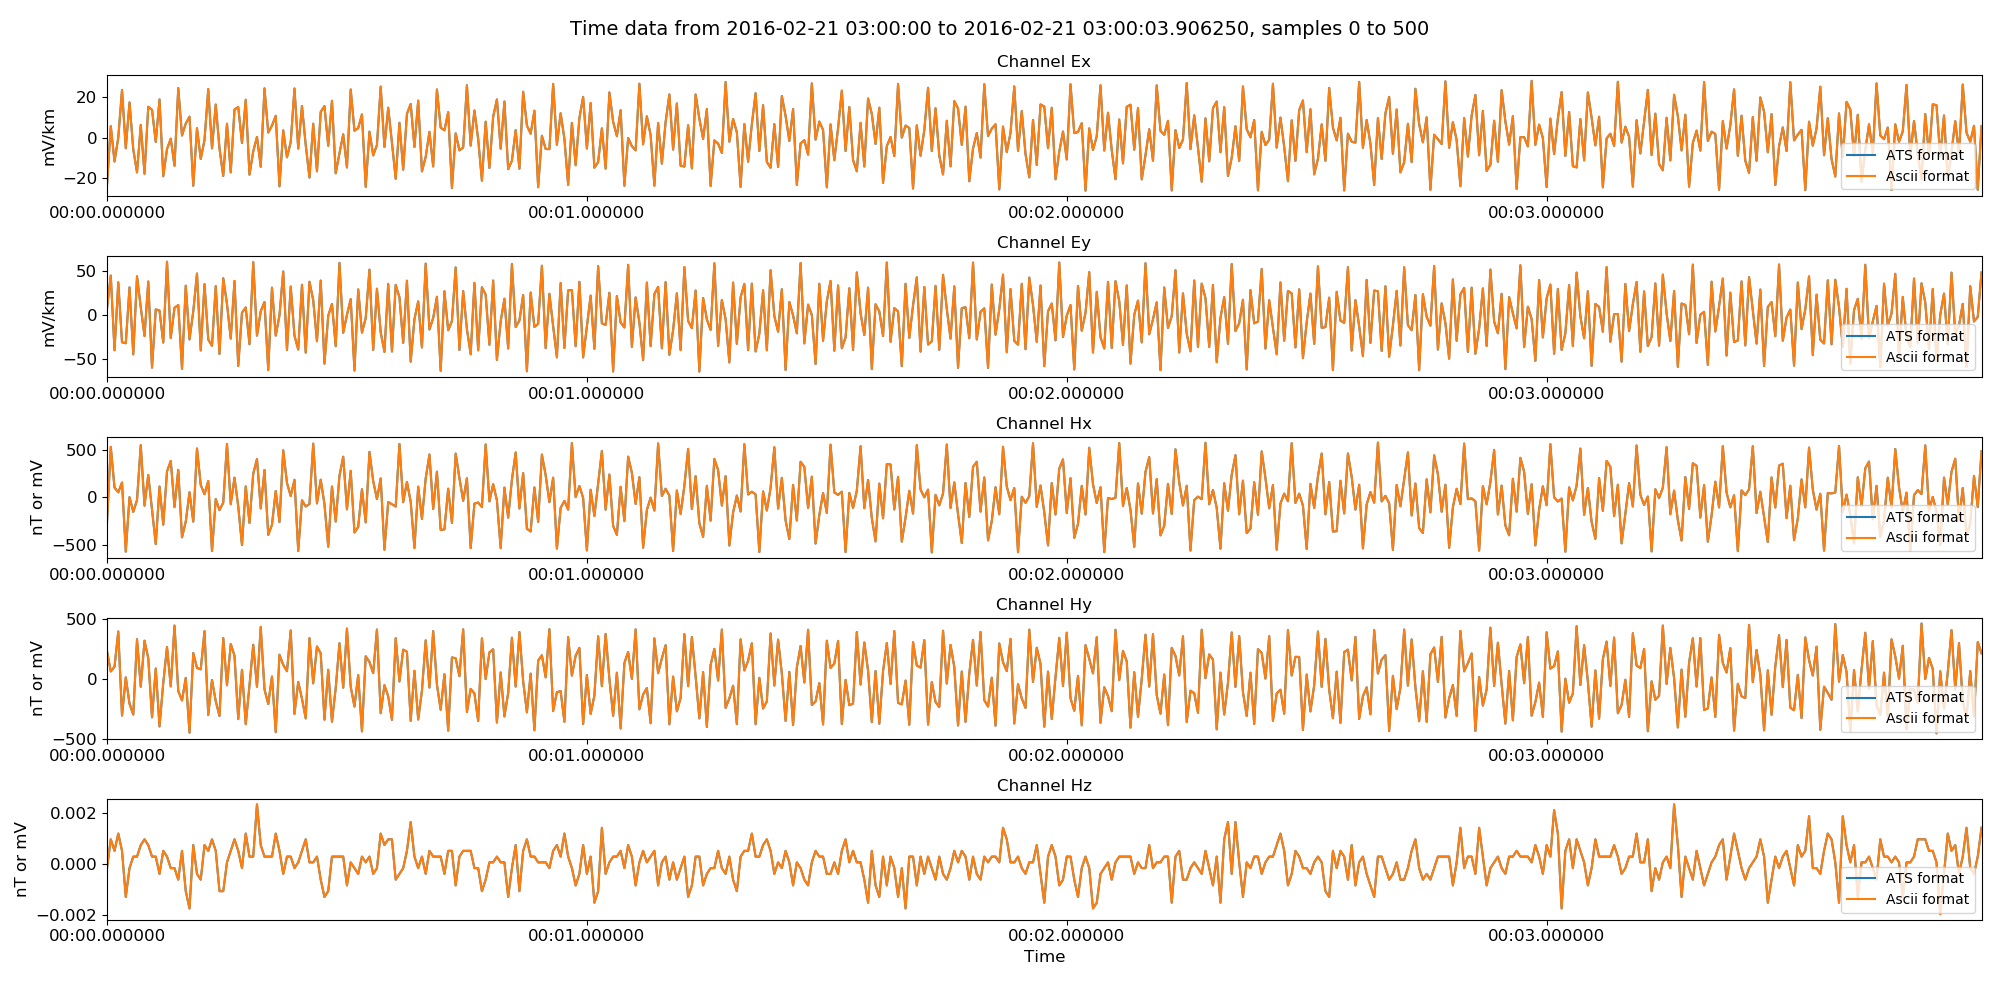
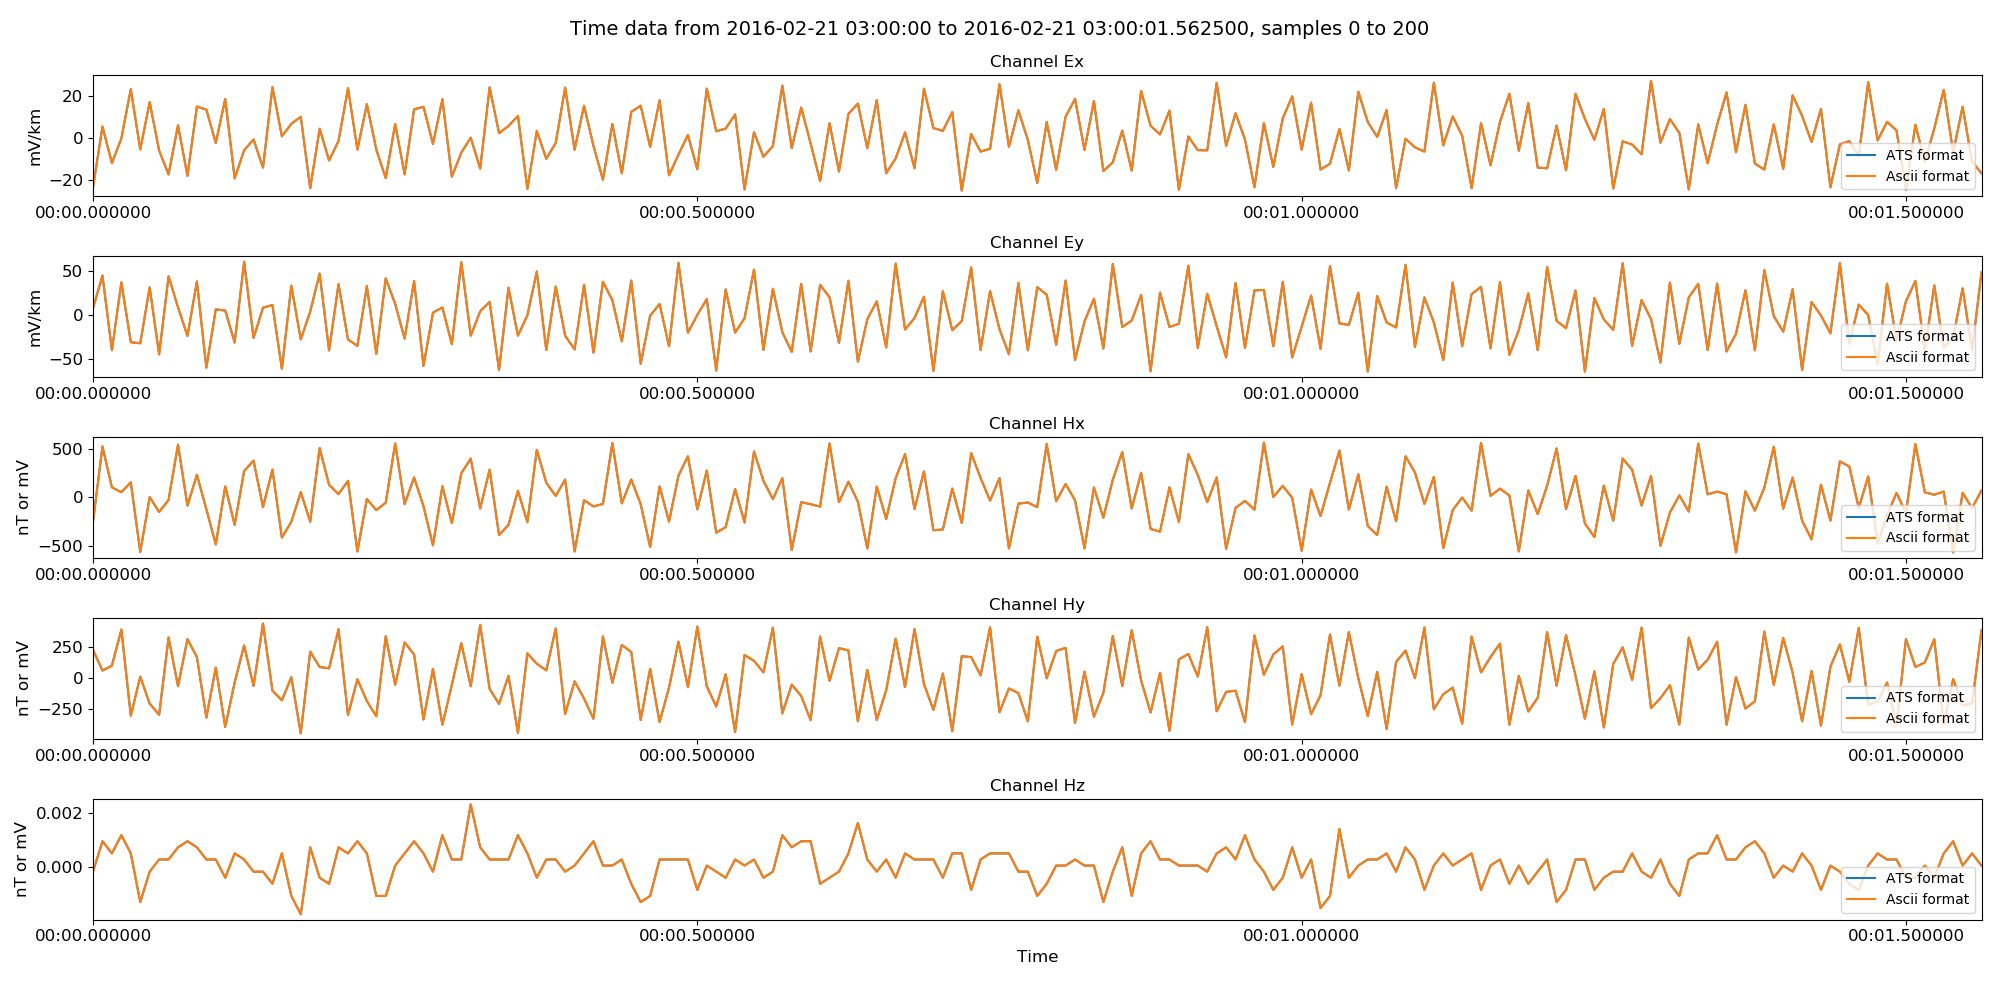
More changes to the read data examples and a few more images generated

diff --git a/examples/conventions/phoenixReaderExamples.py b/examples/conventions/phoenixReaderExamples.py
@@ -4,27 +4,44 @@ from resistics.ioHandlers.dataReaderPhoenix import DataReaderPhoenix
 # read in spam data
 phoenixPath = os.path.join("timeData", "phoenix")
 phoenixReader = DataReaderPhoenix(phoenixPath)
+phoenixReader.printDataFileInfo()
 phoenixReader.printInfo()
 
 # get some data
 startTime = "2011-11-14 02:00:00"
 stopTime = "2011-11-14 03:00:00"
 unscaledData = phoenixReader.getUnscaledData(startTime, stopTime)
-unscaledData.printInfo()
-unscaledData.view(sampleEnd=20000)
+print(unscaledData)
 
-# let's try physical data
+# plot data
+import matplotlib.pyplot as plt
+
+fig = plt.figure(figsize=(20, 2 * unscaledData.numChans))
+unscaledData.view(fig=fig, sampleEnd=20000)
+fig.tight_layout(rect=[0, 0.02, 1, 0.96])
+plt.show()
+fig.savefig(os.path.join("images", "phoenixUnscaled.png"))
+
+# let's try physical data and view it
 physicalData = phoenixReader.getPhysicalData(startTime, stopTime)
 physicalData.printInfo()
-physicalData.view(sampleEnd=20000)
+fig = plt.figure(figsize=(20, 2 * physicalData.numChans))
+physicalData.view(fig=fig, sampleEnd=20000)
+fig.tight_layout(rect=[0, 0.02, 1, 0.96])
+plt.show()
+fig.savefig(os.path.join("images", "phoenixPhysical.png"))
 
-# all we see is 50Hz and 16Hz noise - apply low pass filter
+# can filter the data
 from resistics.utilities.utilsFilter import highPass
 
 filteredData = highPass(physicalData, 4, inplace=False)
-filteredData.view(sampleEnd=20000)
+fig = plt.figure(figsize=(20, 2 * physicalData.numChans))
+filteredData.view(fig=fig, sampleEnd=20000)
+fig.tight_layout(rect=[0, 0.02, 1, 0.96])
+plt.show()
+fig.savefig(os.path.join("images", "phoenixFiltered.png"))
 
-# only reformat the continuous for now
+# reformat the continuous sampling frequency
 phoenix_2internal = os.path.join("timeData", "phoenixInternal")
 phoenixReader.reformatContinuous(phoenix_2internal)
 
@@ -36,11 +53,11 @@ internalReader = DataReaderInternal(
 )
 internalReader.printInfo()
 internalReader.printComments()
+
+# read in physical data
 internalData = internalReader.getPhysicalData(startTime, stopTime)
 
-# plot this against the original
-import matplotlib.pyplot as plt
-
+# plot the two together
 fig = plt.figure(figsize=(20, 2 * physicalData.numChans))
 physicalData.view(fig=fig, label="Phoenix format data")
 internalData.view(fig=fig, label="Internal format data", legend=True)

diff --git a/examples/conventions/spamReaderExamples.py b/examples/conventions/spamReaderExamples.py
@@ -6,14 +6,6 @@ spamPath = os.path.join("timeData", "spam")
 spamReader = DataReaderSPAM(spamPath)
 spamReader.printInfo()
 
-# write out as the internal format
-from resistics.ioHandlers.dataWriterInternal import DataWriterInternal
-
-spam_2internal = os.path.join("timeData", "spamInternal")
-writer = DataWriterInternal()
-writer.setOutPath(spam_2internal)
-writer.writeDataset(spamReader, physical=True)
-
 # get physical data from SPAM
 import matplotlib.pyplot as plt
 
@@ -26,6 +18,14 @@ physicalSPAMData.view(fig=fig, sampleStop=2000)
 fig.tight_layout(rect=[0, 0.02, 1, 0.96])
 plt.show()
 fig.savefig(os.path.join("images", "spam.png"))
+
+# write out as the internal format
+from resistics.ioHandlers.dataWriterInternal import DataWriterInternal
+
+spam_2internal = os.path.join("timeData", "spamInternal")
+writer = DataWriterInternal()
+writer.setOutPath(spam_2internal)
+writer.writeDataset(spamReader, physical=True)
 
 # read in the internal format dataset and see what's in the comments
 from resistics.ioHandlers.dataReaderInternal import DataReaderInternal
@@ -45,7 +45,7 @@ plt.show()
 fig.savefig(os.path.join("images", "spam_vs_internal.png"))
 
 # all we see is 50Hz and 16Hz noise - apply a band pass filter
-from resistics.utilities.utilsFilter import bandPass, lowPass
+from resistics.utilities.utilsFilter import bandPass
 
 filteredSPAMData = bandPass(physicalSPAMData, 0.2, 16, inplace=False)
 filteredSPAMData.printInfo()

diff --git a/examples/conventions/asciiReaderExamples.py b/examples/conventions/asciiReaderExamples.py
@@ -1,8 +1,8 @@
 import os
-from resistics.ioHandlers.dataWriterAscii import DataWriterAscii
+from resistics.ioHandlers.dataWriter import DataWriter
 
 asciiPath = os.path.join("timeData", "ascii")
-writer = DataWriterAscii()
+writer = DataWriter()
 writer.setOutPath(asciiPath)
 chan2FileMap = {
     "Ex": "exmuVm.ascii",
@@ -21,10 +21,17 @@ from resistics.ioHandlers.dataReaderAscii import DataReaderAscii
 
 asciiReader = DataReaderAscii(asciiPath)
 asciiReader.printInfo()
-asciiReader.printComments()
+
+# get data and view
+import matplotlib.pyplot as plt
+
 asciiData = asciiReader.getPhysicalSamples()
 asciiData.printInfo()
-asciiData.view()
+fig = plt.figure(figsize=(20, 2 * asciiData.numChans))
+asciiData.view(fig=fig, label="ASCII format", legend=True)
+fig.tight_layout(rect=[0, 0.02, 1, 0.96])
+plt.show()
+fig.savefig(os.path.join("images", "ascii.png"))
 
 # now write out as internal format
 from resistics.ioHandlers.dataWriterInternal import DataWriterInternal
@@ -44,8 +51,6 @@ internalData = internalReader.getPhysicalSamples()
 internalData.printInfo()
 
 # now plot the two datasets together
-import matplotlib.pyplot as plt
-
 fig = plt.figure(figsize=(20, 2 * asciiData.numChans))
 asciiData.view(fig=fig, sampleStop=500, label="ASCII format", legend=True)
 internalData.view(fig=fig, sampleStop=500, label="Internal format", legend=True)

diff --git a/examples/conventions/atsReaderExamples.py b/examples/conventions/atsReaderExamples.py
@@ -49,8 +49,8 @@ physicalInternalData.printInfo()
 import matplotlib.pyplot as plt
 
 fig = plt.figure(figsize=(20, 2 * physicalATSData.numChans))
-physicalATSData.view(fig=fig, sampleStop=500, label="ATS format", legend=True)
-physicalInternalData.view(fig=fig, sampleStop=500, label="Internal format", legend=True)
+physicalATSData.view(fig=fig, sampleStop=200, label="ATS format", legend=True)
+physicalInternalData.view(fig=fig, sampleStop=200, label="Internal format", legend=True)
 fig.tight_layout(rect=[0, 0.02, 1, 0.96])
 plt.show()
 fig.savefig(os.path.join("images", "ats_vs_internal.png"))
@@ -76,8 +76,8 @@ physicalAsciiData.printInfo()
 import matplotlib.pyplot as plt
 
 fig = plt.figure(figsize=(20, 2 * physicalATSData.numChans))
-physicalATSData.view(fig=fig, sampleStop=500, label="ATS format", legend=True)
-physicalAsciiData.view(fig=fig, sampleStop=500, label="Ascii format", legend=True)
+physicalATSData.view(fig=fig, sampleStop=200, label="ATS format", legend=True)
+physicalAsciiData.view(fig=fig, sampleStop=200, label="Ascii format", legend=True)
 fig.tight_layout(rect=[0, 0.02, 1, 0.96])
 plt.show()
 fig.savefig(os.path.join("images", "ats_vs_ascii.png"))
